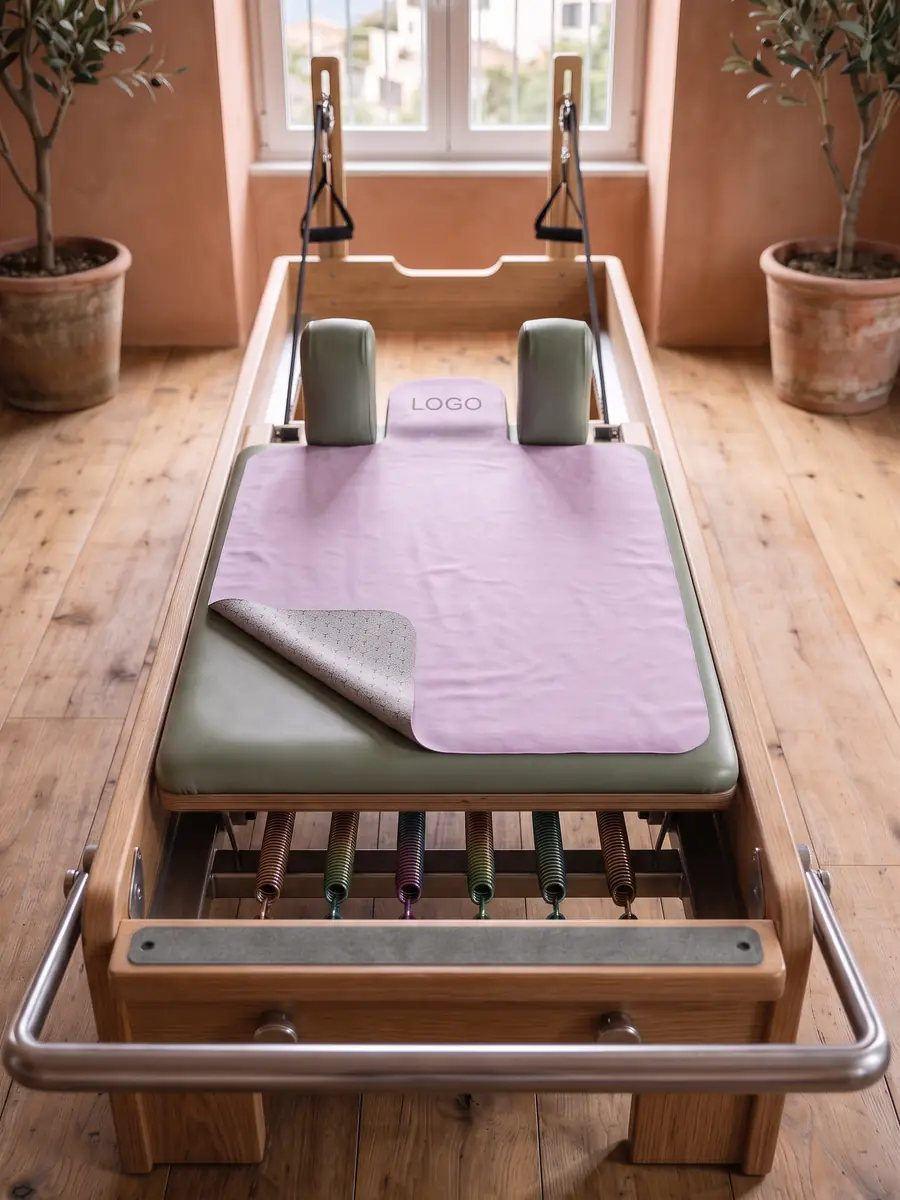
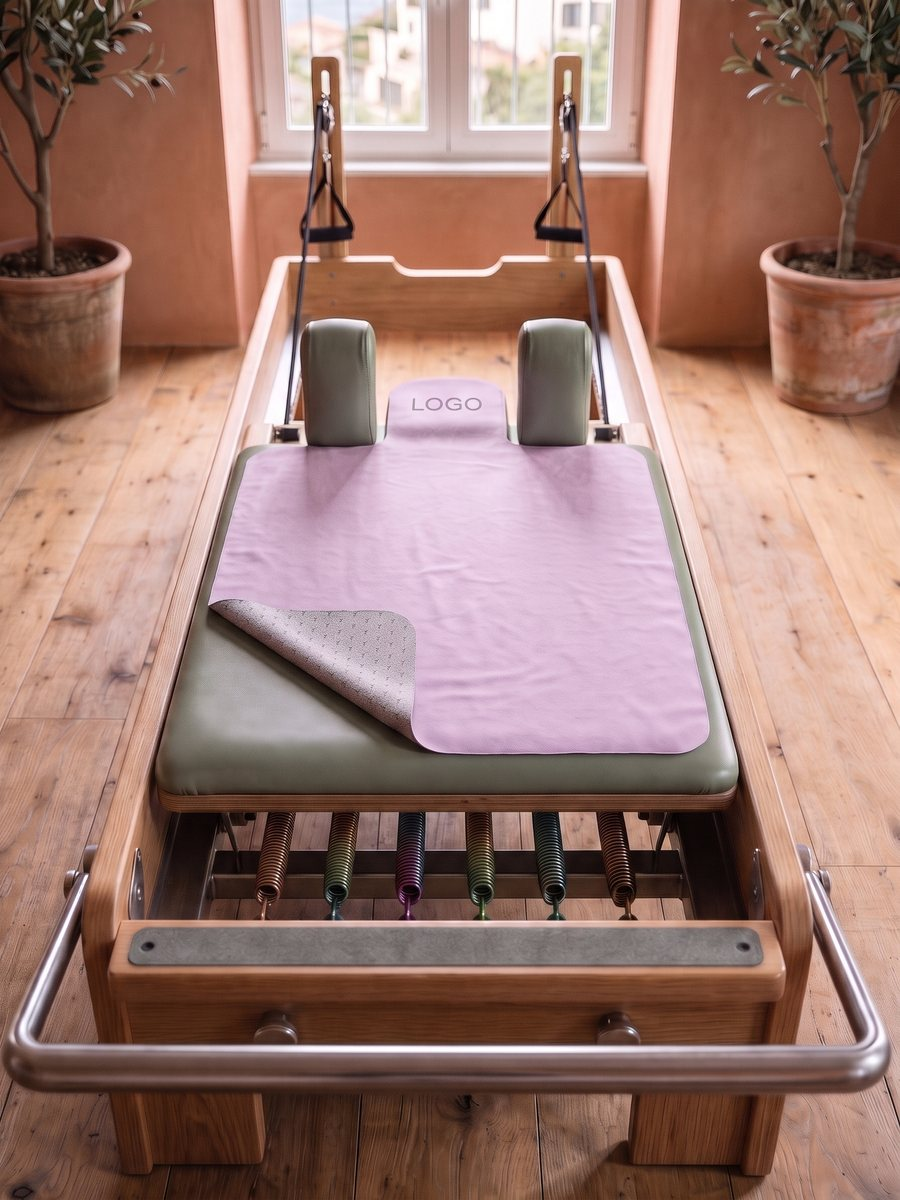
Calma towel: nieuwe hoofdfoto met zichtbaar suede
Vervangt de productfoto van de Reformer towel Calma (homepagekaart en
tegel in het mockup-formulier) in alle vijf talen door de nieuwe,
scherpere foto met zichtbare suede-structuur. Zelfde formaat (900x1200).
Focuspunt van de towel-afbeeldingen iets hoger gezet (object-position
50% 40%) zodat de towel in de uitsneden op mobiel en in het formulier
mooi in beeld staat.

Claude-Session: https://claude.ai/code/session_01Y9H7uswocFAFPtY7bJc7V3

diff --git a/site/de/index.html b/site/de/index.html
@@ -1679,7 +1679,7 @@ footer a{white-space:nowrap}
       </article>
       <article class="p-card" id="toalla-reformer">
         <div class="imgbox">
-          <picture><source srcset="../images/product-towel.webp" type="image/webp"><img src="../images/product-towel.jpg" width="900" height="1200" alt="Lavendelfarbenes Reformer-Handtuch Calma mit Logo auf einem Reformer in einem mediterranen Studio" loading="lazy"></picture>
+          <picture><source srcset="../images/product-towel.webp" type="image/webp"><img src="../images/product-towel.jpg" width="900" height="1200" alt="Lavendelfarbenes Reformer-Handtuch Calma mit Logo auf einem Reformer in einem mediterranen Studio" style="object-position:50% 40%" loading="lazy"></picture>
         </div>
         <div class="p-body">
           <h3>Reformer-Handtuch Calma</h3>
@@ -1894,7 +1894,7 @@ footer a{white-space:nowrap}
                 <span class="mw-card-label">Stofftasche</span>
               </button>
               <button type="button" class="mw-card" data-product="Toalla reformer Calma">
-                <picture><source srcset="../images/product-towel.webp" type="image/webp"><img src="../images/product-towel.jpg" width="900" height="1200" alt="Reformer-Handtuch" loading="lazy"></picture>
+                <picture><source srcset="../images/product-towel.webp" type="image/webp"><img src="../images/product-towel.jpg" width="900" height="1200" alt="Reformer-Handtuch" style="object-position:50% 40%" loading="lazy"></picture>
                 <span class="mw-card-check" aria-hidden="true"><svg width="14" height="14" viewBox="0 0 24 24" fill="none"><path d="M5 12.5l4.5 4.5L19 7.5" stroke="currentColor" stroke-width="3.2" stroke-linecap="round" stroke-linejoin="round"/></svg></span>
                 <span class="mw-card-label">Reformer-Handtuch</span>
               </button>

diff --git a/site/fr/index.html b/site/fr/index.html
@@ -1753,7 +1753,7 @@ footer a{white-space:nowrap}
       </article>
       <article class="p-card" id="toalla-reformer">
         <div class="imgbox">
-          <picture><source srcset="/images/product-towel.webp" type="image/webp"><img src="/images/product-towel.jpg" width="900" height="1200" alt="Serviette Reformer Calma lavande avec logo, posée sur un Reformer dans un studio méditerranéen" loading="lazy"></picture>
+          <picture><source srcset="/images/product-towel.webp" type="image/webp"><img src="/images/product-towel.jpg" width="900" height="1200" alt="Serviette Reformer Calma lavande avec logo, posée sur un Reformer dans un studio méditerranéen" style="object-position:50% 40%" loading="lazy"></picture>
         </div>
         <div class="p-body">
           <h3>Serviette Reformer Calma</h3>
@@ -1968,7 +1968,7 @@ footer a{white-space:nowrap}
                 <span class="mw-card-label">Tote bag</span>
               </button>
               <button type="button" class="mw-card" data-product="Toalla reformer Calma">
-                <picture><source srcset="/images/product-towel.webp" type="image/webp"><img src="/images/product-towel.jpg" width="900" height="1200" alt="Serviette Reformer" loading="lazy"></picture>
+                <picture><source srcset="/images/product-towel.webp" type="image/webp"><img src="/images/product-towel.jpg" width="900" height="1200" alt="Serviette Reformer" style="object-position:50% 40%" loading="lazy"></picture>
                 <span class="mw-card-check" aria-hidden="true"><svg width="14" height="14" viewBox="0 0 24 24" fill="none"><path d="M5 12.5l4.5 4.5L19 7.5" stroke="currentColor" stroke-width="3.2" stroke-linecap="round" stroke-linejoin="round"/></svg></span>
                 <span class="mw-card-label">Serviette Reformer</span>
               </button>

diff --git a/site/index.html b/site/index.html
@@ -1750,7 +1750,7 @@ footer a{white-space:nowrap}
       </article>
       <article class="p-card" id="toalla-reformer">
         <div class="imgbox">
-          <picture><source srcset="images/product-towel.webp" type="image/webp"><img src="images/product-towel.jpg" width="900" height="1200" alt="Toalla para reformer Calma color lavanda con logo, sobre un reformer en un estudio mediterráneo" loading="lazy"></picture>
+          <picture><source srcset="images/product-towel.webp" type="image/webp"><img src="images/product-towel.jpg" width="900" height="1200" alt="Toalla para reformer Calma color lavanda con logo, sobre un reformer en un estudio mediterráneo" style="object-position:50% 40%" loading="lazy"></picture>
         </div>
         <div class="p-body">
           <h3>Toalla para reformer Calma</h3>
@@ -1965,7 +1965,7 @@ footer a{white-space:nowrap}
                 <span class="mw-card-label">Tote bag</span>
               </button>
               <button type="button" class="mw-card" data-product="Toalla reformer Calma">
-                <picture><source srcset="images/product-towel.webp" type="image/webp"><img src="images/product-towel.jpg" width="900" height="1200" alt="Toalla para reformer" loading="lazy"></picture>
+                <picture><source srcset="images/product-towel.webp" type="image/webp"><img src="images/product-towel.jpg" width="900" height="1200" alt="Toalla para reformer" style="object-position:50% 40%" loading="lazy"></picture>
                 <span class="mw-card-check" aria-hidden="true"><svg width="14" height="14" viewBox="0 0 24 24" fill="none"><path d="M5 12.5l4.5 4.5L19 7.5" stroke="currentColor" stroke-width="3.2" stroke-linecap="round" stroke-linejoin="round"/></svg></span>
                 <span class="mw-card-label">Toalla para reformer</span>
               </button>

diff --git a/site/nl/index.html b/site/nl/index.html
@@ -1620,7 +1620,7 @@ footer a{white-space:nowrap}
       </article>
       <article class="p-card" id="toalla-reformer">
         <div class="imgbox">
-          <picture><source srcset="../images/product-towel.webp" type="image/webp"><img src="../images/product-towel.jpg" width="900" height="1200" alt="Lavendelkleurige Calma reformer towel met logo op een reformer in een mediterrane studio" loading="lazy"></picture>
+          <picture><source srcset="../images/product-towel.webp" type="image/webp"><img src="../images/product-towel.jpg" width="900" height="1200" alt="Lavendelkleurige Calma reformer towel met logo op een reformer in een mediterrane studio" style="object-position:50% 40%" loading="lazy"></picture>
         </div>
         <div class="p-body">
           <h3>Calma reformer towel</h3>
@@ -1835,7 +1835,7 @@ footer a{white-space:nowrap}
                 <span class="mw-card-label">Tote bag</span>
               </button>
               <button type="button" class="mw-card" data-product="Toalla reformer Calma">
-                <picture><source srcset="../images/product-towel.webp" type="image/webp"><img src="../images/product-towel.jpg" width="900" height="1200" alt="Reformer towel" loading="lazy"></picture>
+                <picture><source srcset="../images/product-towel.webp" type="image/webp"><img src="../images/product-towel.jpg" width="900" height="1200" alt="Reformer towel" style="object-position:50% 40%" loading="lazy"></picture>
                 <span class="mw-card-check" aria-hidden="true"><svg width="14" height="14" viewBox="0 0 24 24" fill="none"><path d="M5 12.5l4.5 4.5L19 7.5" stroke="currentColor" stroke-width="3.2" stroke-linecap="round" stroke-linejoin="round"/></svg></span>
                 <span class="mw-card-label">Reformer towel</span>
               </button>

diff --git a/site/en/index.html b/site/en/index.html
@@ -1691,7 +1691,7 @@ footer a{white-space:nowrap}
       </article>
       <article class="p-card" id="toalla-reformer">
         <div class="imgbox">
-          <picture><source srcset="../images/product-towel.webp" type="image/webp"><img src="../images/product-towel.jpg" width="900" height="1200" alt="Lavender Calma reformer towel with a logo on a reformer in a Mediterranean studio" loading="lazy"></picture>
+          <picture><source srcset="../images/product-towel.webp" type="image/webp"><img src="../images/product-towel.jpg" width="900" height="1200" alt="Lavender Calma reformer towel with a logo on a reformer in a Mediterranean studio" style="object-position:50% 40%" loading="lazy"></picture>
         </div>
         <div class="p-body">
           <h3>Calma reformer towel</h3>
@@ -1906,7 +1906,7 @@ footer a{white-space:nowrap}
                 <span class="mw-card-label">Tote bag</span>
               </button>
               <button type="button" class="mw-card" data-product="Toalla reformer Calma">
-                <picture><source srcset="../images/product-towel.webp" type="image/webp"><img src="../images/product-towel.jpg" width="900" height="1200" alt="Reformer towel" loading="lazy"></picture>
+                <picture><source srcset="../images/product-towel.webp" type="image/webp"><img src="../images/product-towel.jpg" width="900" height="1200" alt="Reformer towel" style="object-position:50% 40%" loading="lazy"></picture>
                 <span class="mw-card-check" aria-hidden="true"><svg width="14" height="14" viewBox="0 0 24 24" fill="none"><path d="M5 12.5l4.5 4.5L19 7.5" stroke="currentColor" stroke-width="3.2" stroke-linecap="round" stroke-linejoin="round"/></svg></span>
                 <span class="mw-card-label">Reformer towel</span>
               </button>
